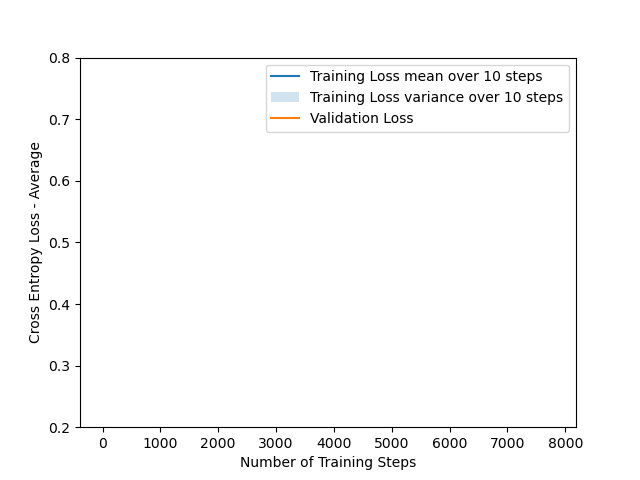
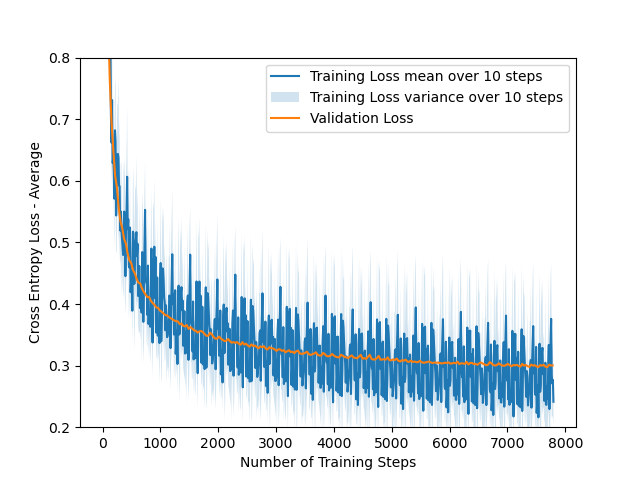
accuracy

Changed region(s): [[0.1562, 0.125, 0.875, 0.9062]]

diff --git a/assignment1/task3.py b/assignment1/task3.py
@@ -18,13 +18,14 @@ def calculate_accuracy(X: np.ndarray, targets: np.ndarray, model: SoftmaxModel) 
     """
     # TODO: Implement this function (task 3c)
     Y_pred=model.forward(X)
-    print(Y_pred[:100])
-    print(targets[0])
-    Y_class= np.max(Y_pred[:])
-    print(Y_class[0])
+    #Y_class= np.zeros(Y_pred.shape[1])[np.argmax(Y_pred)]=1
 
+    Y_class = np.zeros_like(Y_pred)
+    Y_class[np.arange(len(Y_pred)), np.argmax(Y_pred, axis=1)] = 1
 
-    accuracy = 0
+    correct_classifications = np.sum(Y_class == targets)
+    tot=Y_class.shape[0]
+    accuracy=correct_classifications/tot
     return accuracy
 
 
@@ -45,8 +46,10 @@ class SoftmaxTrainer(BaseTrainer):
         # TODO: Implement this function (task 3b)
 
         outputs= self.model.forward(X_batch)
-        self.model.backward(X_batch, outputs, Y_batch)
         loss = cross_entropy_loss(Y_batch, outputs)
+        self.model.backward(X_batch, outputs, Y_batch)
+        self.model.w -= self.learning_rate * self.model.grad
+
         return loss
 
     def validation_step(self):

diff --git a/assignment1/task2.py b/assignment1/task2.py
@@ -18,7 +18,7 @@ def calculate_accuracy(X: np.ndarray, targets: np.ndarray, model: BinaryModel) -
     # TODO Implement this function (Task 2c)
 
     Y_pred=model.forward(X)
-    print(Y_pred[0])
+
     #at this point th model returns predictions (0,1) but we need classifications to determin acc
     #apply a treshold og 0,5. that is if y_pred>0,5 it is set to class 1 else class 0
     Y_class = (Y_pred >= 0.5).astype(int)

diff --git a/assignment1/task3a.py b/assignment1/task3a.py
@@ -94,7 +94,7 @@ def one_hot_encode(Y: np.ndarray, num_classes: int):
     Y_onehotencoded= np.zeros((Y.shape[0],num_classes))
     for i in range(Y.shape[0]):
         Y_onehotencoded[i, int(Y[i])]=1
-    #print(Y_onehotencoded[1])  
+    
     return Y_onehotencoded
 
 
